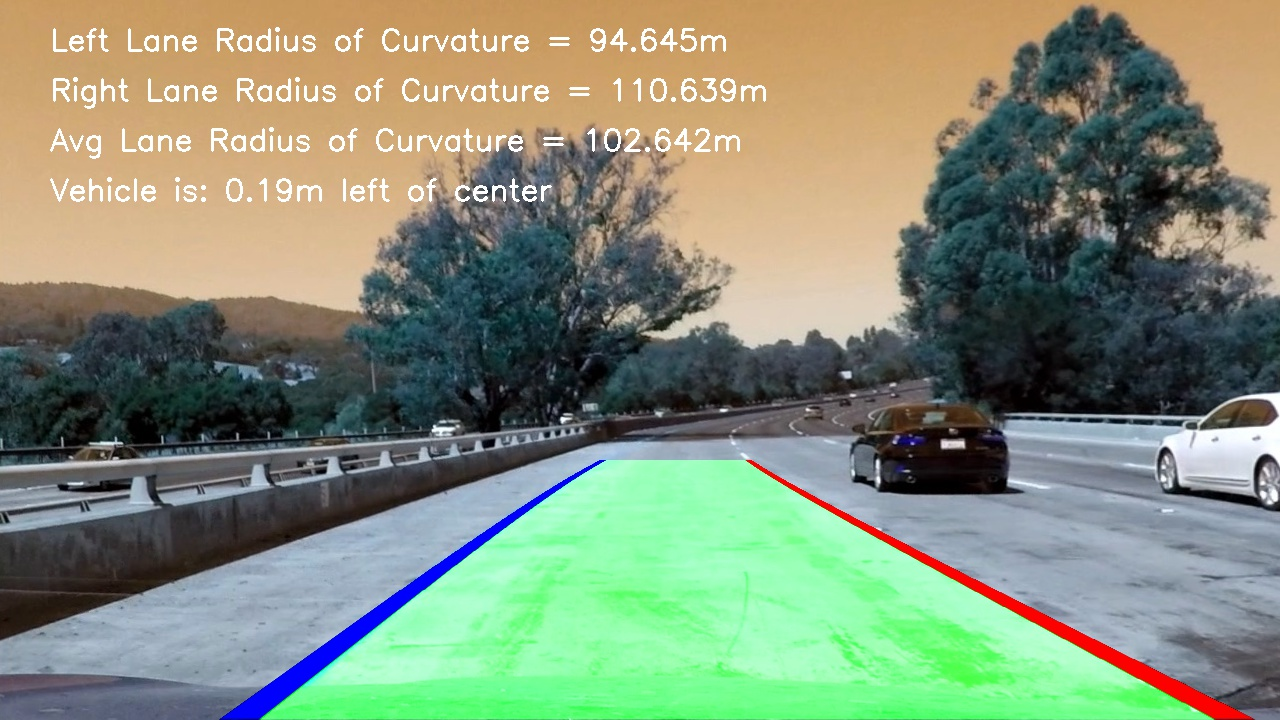
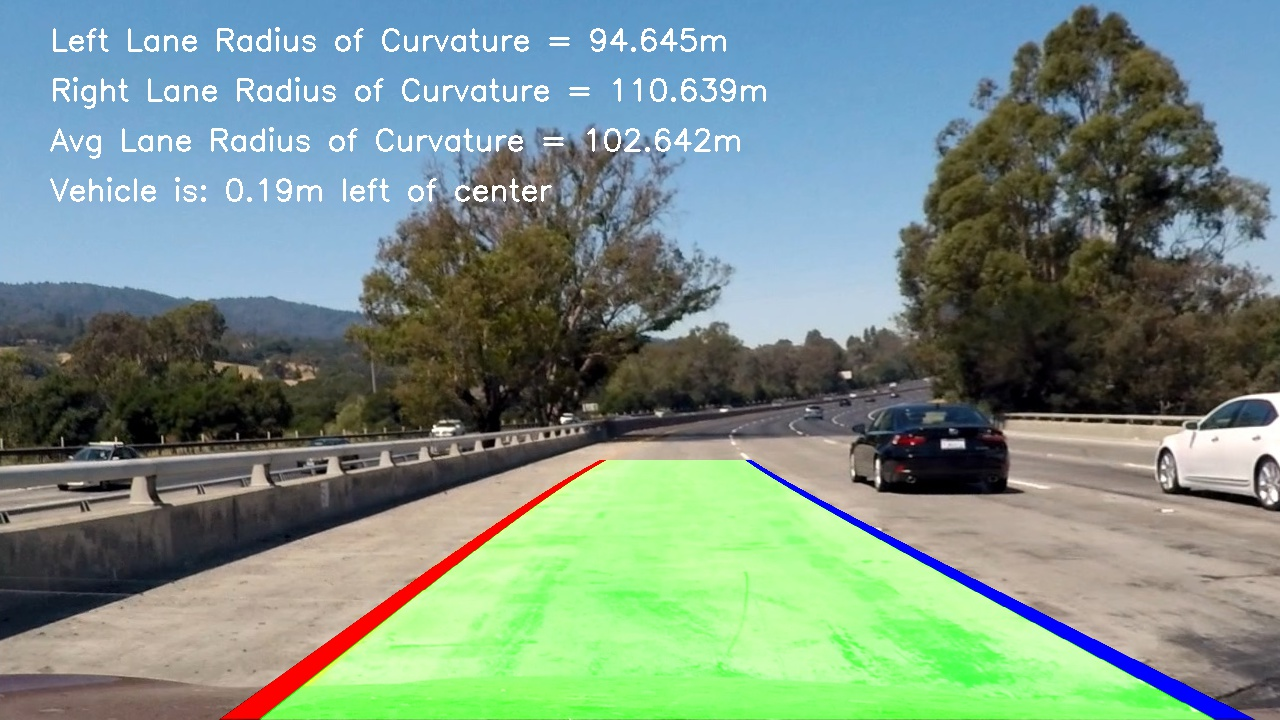
update images and pipeline per RGB Store instead of BGR

diff --git a/assignments/CarND-Advanced-Lane-Lines-P4/pipeline.py b/assignments/CarND-Advanced-Lane-Lines-P4/pipeline.py
@@ -122,7 +122,7 @@ def pipeline_frame(img, mtx, dist, fname=None, tracked_dir=None):
     left_lane, right_lane, inner_lane = curvature.fit_lanes(left_fitx, right_fitx)
     img_lanes = curvature.view_lanes(undist_img, Minv, left_lane, right_lane, inner_lane)
     img_annot = curvature.annotate_frame(img_lanes, window_centroids, left_fitx, right_fitx)
-    save_file(img_annot, 'curvature', fname, tracked_dir)
+    save_file(img_annot, 'curvature', fname, tracked_dir, save_type='RGB')
     return img_annot
 
 def pipeline_frame_base(img, mtx, dist, fname=None, tracked_dir=None):
@@ -131,7 +131,7 @@ def pipeline_frame_base(img, mtx, dist, fname=None, tracked_dir=None):
     """
     # Step 1b: correct distortions at boundary using serialized calibration
     undist_img = cv2.undistort(img, mtx, dist, None, mtx)
-    save_file(undist_img, 'undistorted', fname, tracked_dir, save_type=-1)
+    save_file(undist_img, 'undistorted', fname, tracked_dir, save_type='RGB')
     # Step 2: gradient and color threshold
     gc_binary = pipeline_gradient_color(undist_img)
     save_file(gc_binary, 'gc_binary', fname, tracked_dir)
